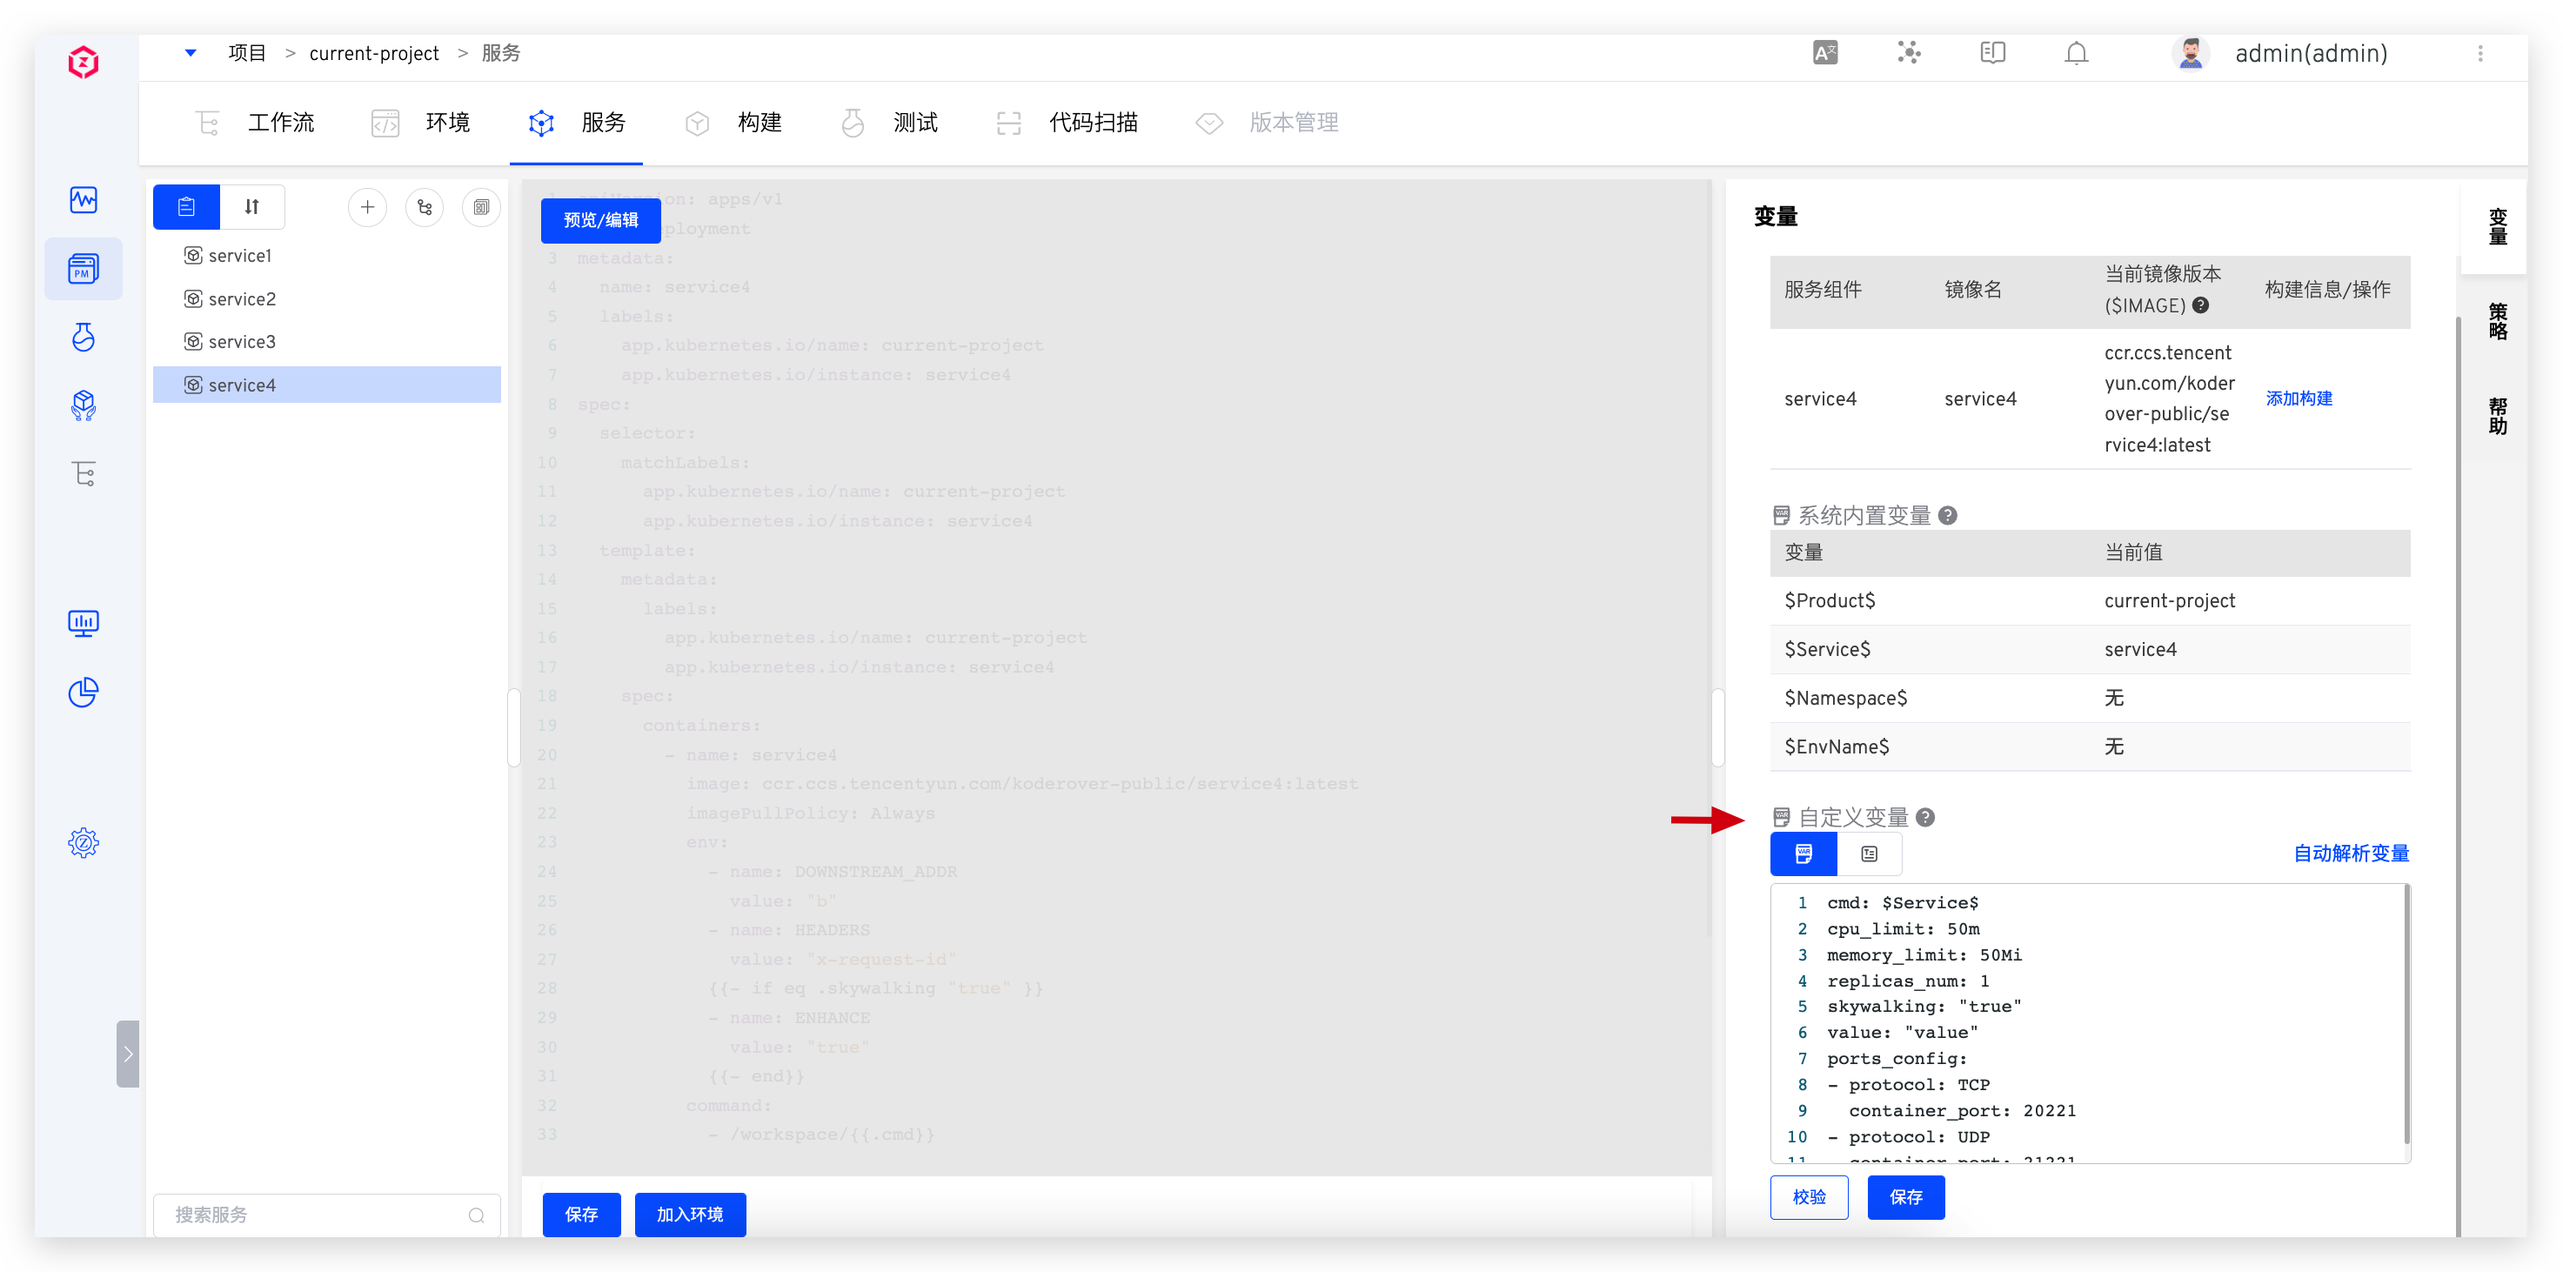
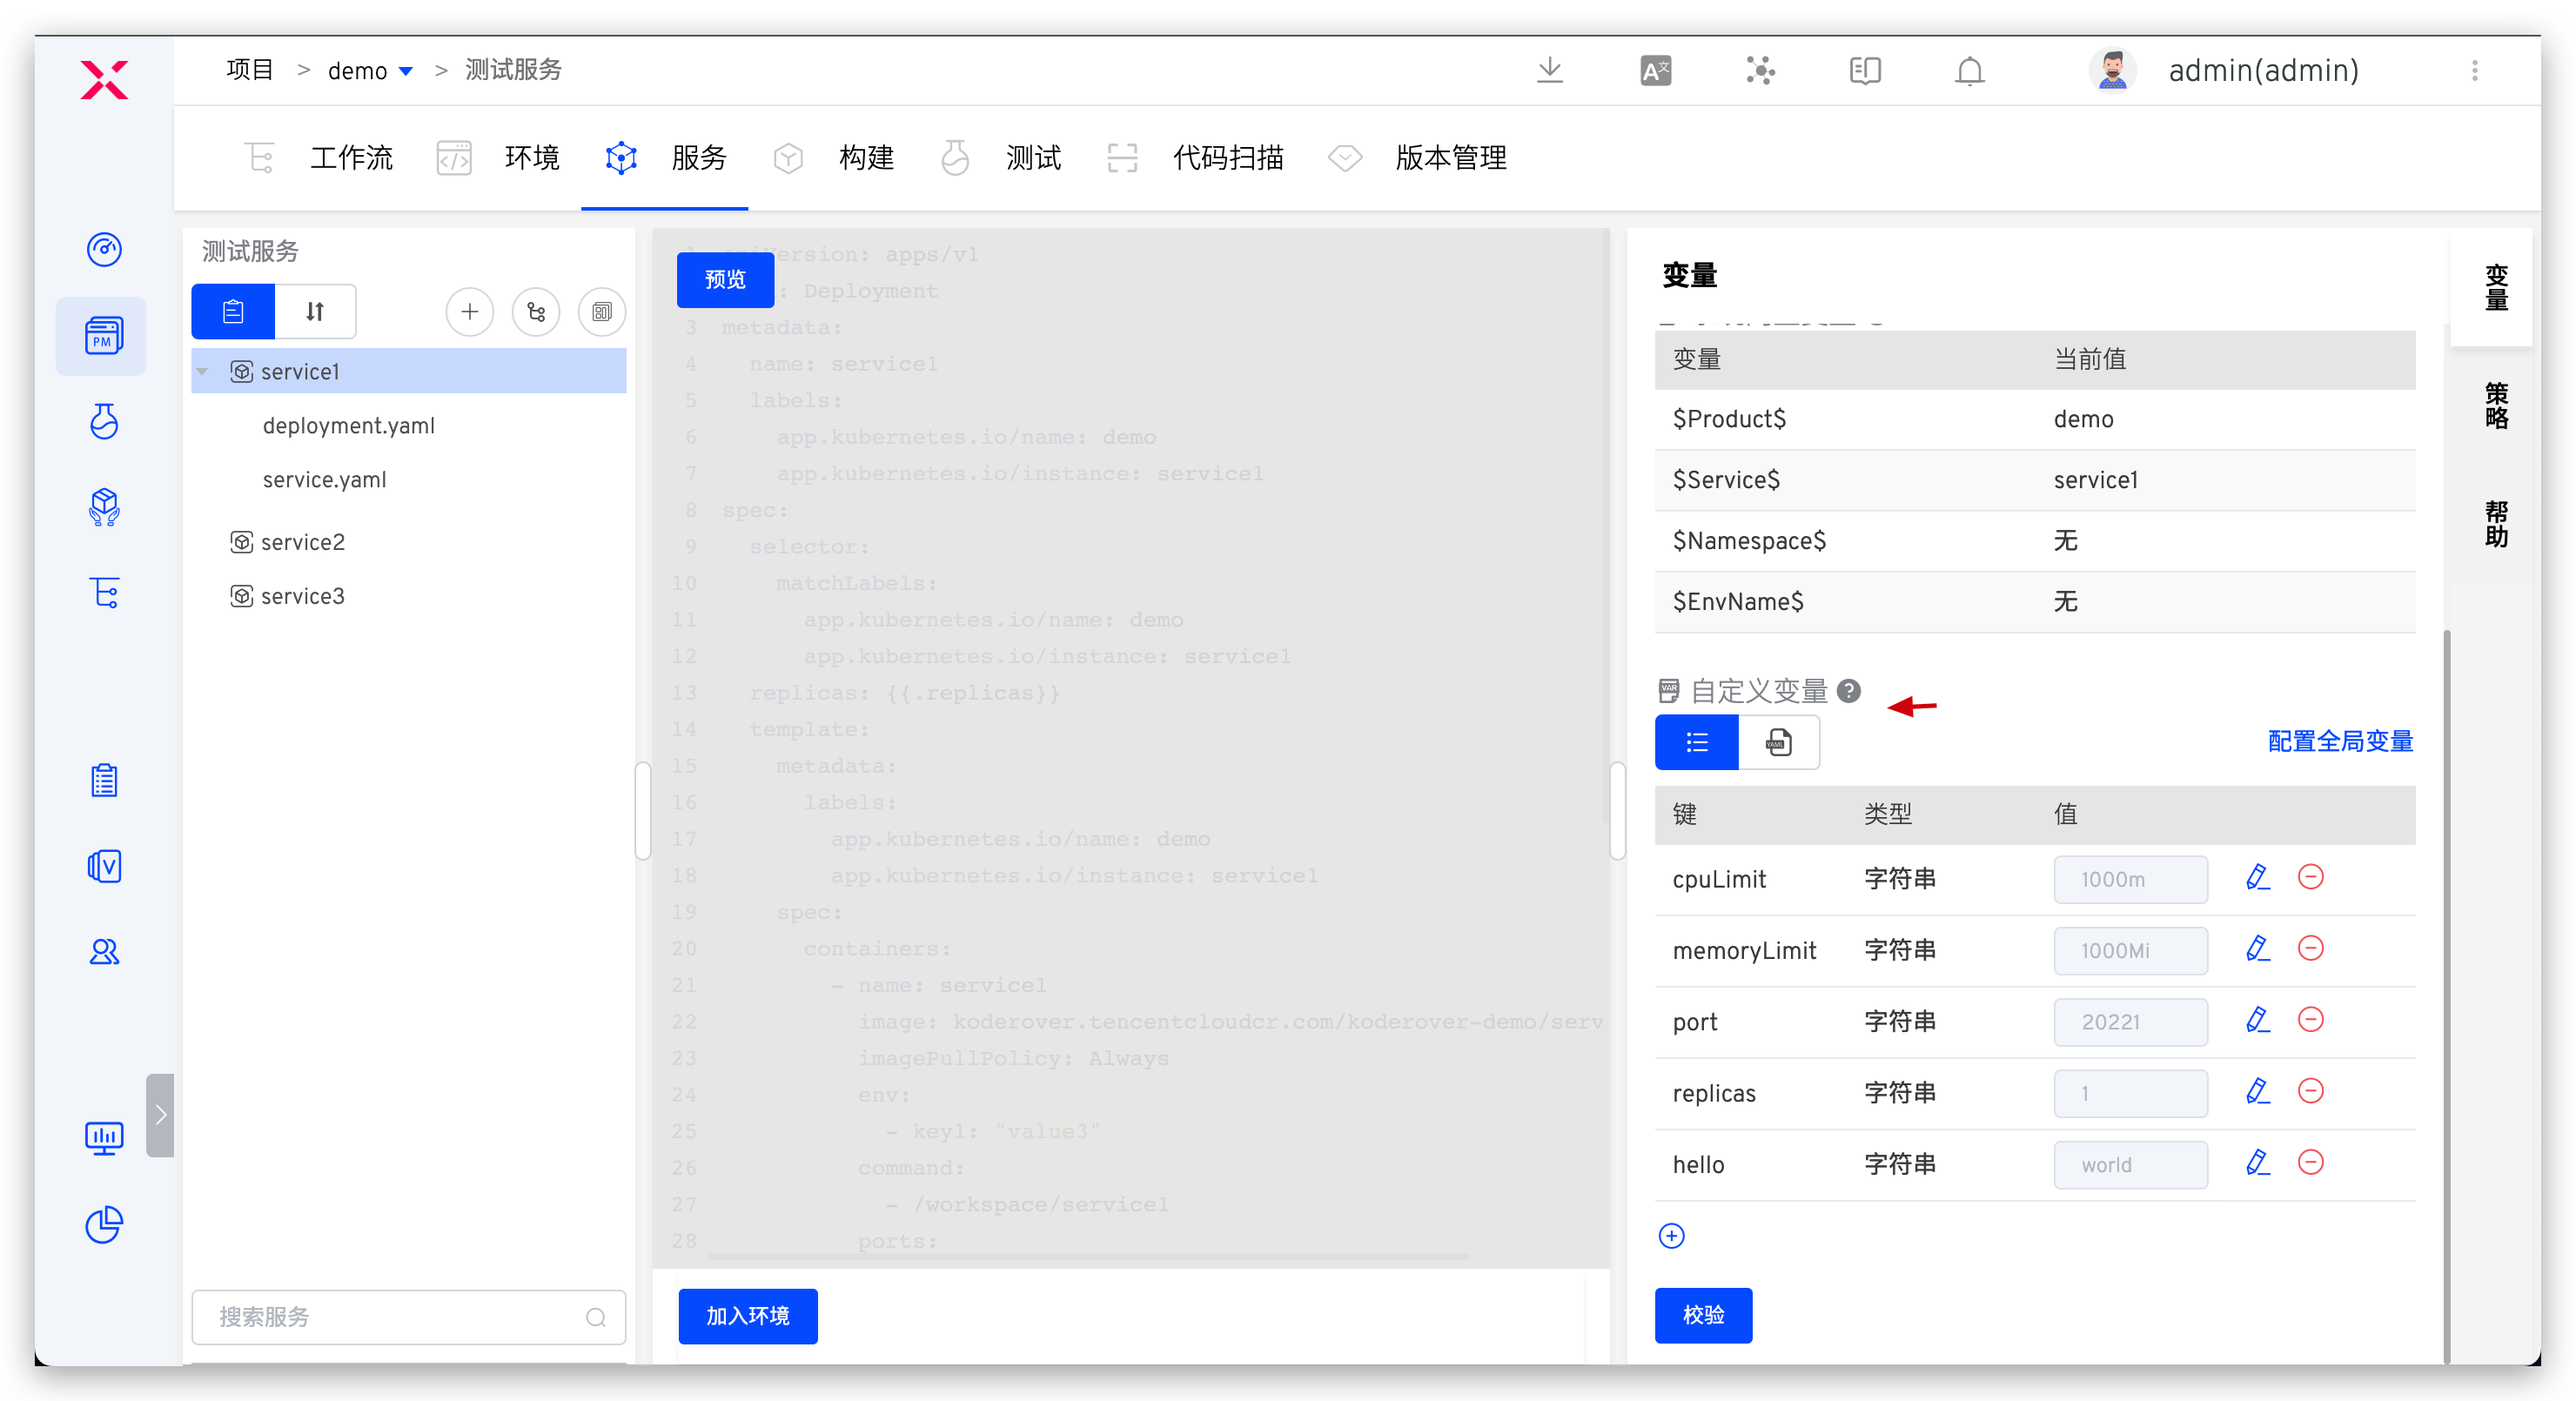
update service var

diff --git a/ZadigX v1.5.0/05.功能介绍/04.服务/01.k8s_service.md b/ZadigX v1.5.0/05.功能介绍/04.服务/01.k8s_service.md
@@ -197,7 +197,7 @@ permalink: /ZadigX v1.5.0/project/service/k8s/
 ![K8s 服务编排](../_images/k8s_service_orchestration_1.png)
 
 ## 变量配置
-> 包括系统内置变量和自定义变量，可在服务 YAML 中进行引用，其中容器名称和镜像信息中只能使用内置变量 `$Product$` 和 `$Service$`。
+包括[系统内置变量](#系统内置变量)和[自定义变量](#自定义变量)，可在服务 YAML 中进行引用，其中容器名称和镜像信息中只能使用内置变量 `$Product$` 和 `$Service$`。
 
 ![变量](../_images/var.png)
 
@@ -210,28 +210,28 @@ permalink: /ZadigX v1.5.0/project/service/k8s/
   - `$EnvName$`：创建的环境名称，不可用于容器名称和镜像信息中
 
 ### 自定义变量
-服务的 YAML 配置文件中形如 <span v-pre>`{{.Key}}`</span> 的内容可以自动解析为自定义变量，编辑可修改服务变量的默认值。
+1. 服务的 YAML 配置文件中形如 <span v-pre>`{{.Key}}`</span> 的内容可以自动解析为自定义变量。
+2. 点击自定义变量下方的`键值对`、`YAML 文件`图标可切换变量视图。
+3. 可修改服务变量的类型及默认值并校验正确性，支持字符串、枚举、布尔、YAML 四种类型。
 
 ![变量](../_images/var1.png)
 
-切换列表视图可定义服务变量的可见性。
-- 不可见的变量：仅可在环境中的全局变量中使用
-- 可见的变量：可在环境中的服务变量和全局变量中使用
+### 全局变量
 
-![变量](../_images/var2.png)
+点击自定义变量右侧的`配置全局变量`进行配置。
 
-::: tip 注意
-使用模板新建的服务且开启自动同步的情况下：
-1. 服务变量可见性不可修改
-2. 服务变量可见性继承模板中变量可见性配置
-:::
+![变量](../_images/public_var.png)
+
+添加全局变量，默认可选的键来自于所有服务的自定义变量（键名相同的变量视为同一个），也可以输入变量名来添加全局变量。
+
+![变量](../_images/public_var_1.png)
 
 ### 变量示例
 
 以下述 YAML 配置文件为例说明：
 
-1. 第 4、11 行引用内置变量 `Product`，无需赋予默认值，在创建环境时内置变量会被自动渲染替换
-2. 第 7 行引用全局变量 `portal_host`，在创建环境时可以使用默认值也可以再次修改
+1. 第 4、11 行引用内置变量 `$Product$`，无需赋予默认值，在创建环境时内置变量会被自动渲染替换
+2. 第 7 行引用自定义变量 <span v-pre>`{{.portal_host}}`</span>，在创建环境时可以使用默认值也可以再次修改
 
 ```yaml
 apiVersion: extensions/v1beta1
@@ -240,13 +240,14 @@ metadata:
   name: $Product$-index  // 引用系统内置变量 $Product$，环境创建时被渲染
 spec:
   rules:
-  - host: {{.portal_host}} // 引用全局变量 portal_host，环境创建时被渲染
+  - host: {{.portal_host}} // 引用全局变量 {{.portal_host}}，环境创建时被渲染
     http:
       paths:
       - backend:
           serviceName: $Product$-index
           servicePort: 80
         path: /
+        ...更多内容省略...
 ```
 ### 变量的使用
 #### 创建环境时使用
